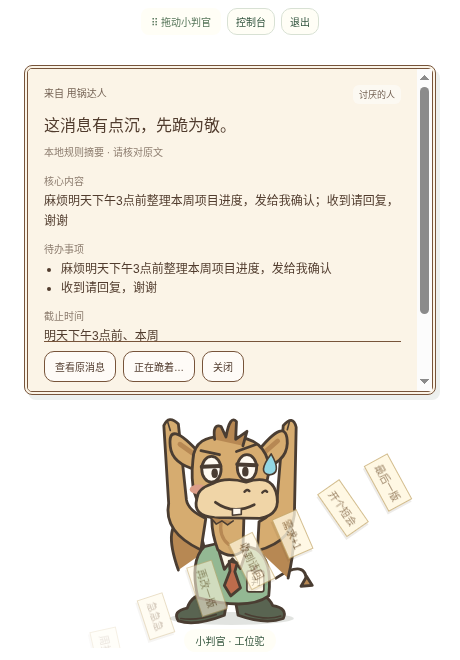
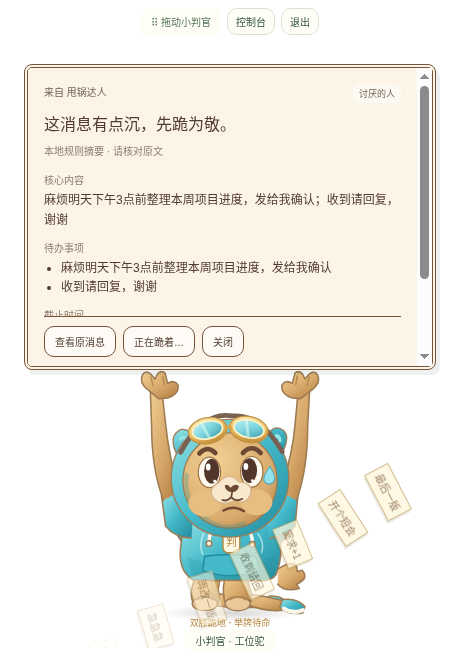
feat: redesign hoodie camel and make kneeling unmistakable

diff --git a/src/components/Character.tsx b/src/components/Character.tsx
@@ -1,55 +1,163 @@
+import {useId} from 'react';
 import type {CharacterSkin} from '../lib/model';
 import {actionLabels, isKneeling} from '../lib/effects';
 
-// 原创 SVG 骆驼：双驼峰、半睁眼、突出的大嘴。矢量分组作为动画关节。
+// 原创圆润连帽衫骆驼。渐变、眼睛高光和软轮廓提供立体感；独立跪姿骨架，
+// 不是把站姿的脚压扁。四套皮肤和所有动作共用同一套可变形矢量关节。
 export function Character({action = 'idle', name = '小判官', color = '薄荷绿', skin = 'desert'}: {
   action?: string; name?: string; color?: string; skin?: CharacterSkin;
 }) {
-  const label = actionLabels[action as keyof typeof actionLabels] ?? '带薪发呆';
-  return <div className={`character camel ${action} ${isKneeling(action) ? 'kneel' : ''} skin-${skin} color-${color}`} role="img" aria-label={`${name}，骆驼打工人，${label}`}>
-    <svg viewBox="0 0 260 290" aria-hidden="true" className="camel-art">
-      <ellipse className="camel-shadow" cx="132" cy="277" rx="77" ry="8"/>
-      <g className="camel-figure" stroke="var(--ink)" strokeWidth="3.5" strokeLinejoin="round" strokeLinecap="round">
-        <path className="camel-tail" d="M187 227 Q226 201 225 234" fill="none"/><path className="camel-tail-tip" d="M225 225 l-7 12 14-1 Z" fill="var(--fur-dark)"/>
-        <g className="camel-humps" fill="var(--fur-dark)"><path d="M66 205 Q45 146 75 141 Q91 140 99 182"/><path d="M167 182 Q180 121 202 147 Q215 160 202 215"/></g>
-        <g className="camel-knees" fill="var(--pants)"><path d="M115 248 Q85 241 77 264 Q58 268 66 280 Q87 287 123 273 L127 252 Z"/><path d="M143 248 Q174 240 183 261 Q202 264 196 277 Q174 285 140 273 L136 252 Z"/><path d="M69 277 Q89 280 113 272 M149 271 Q175 280 193 274" fill="none" strokeWidth="2"/></g>
-        <g className="camel-leg left"><path d="M97 238 L94 267 Q70 270 77 279 L117 278 L119 238" fill="var(--pants)"/><path d="M77 275 H116"/></g>
-        <g className="camel-leg right"><path d="M140 237 L143 274 L184 279 Q191 267 166 267 L164 237" fill="var(--pants)"/><path d="M145 275 H182"/></g>
-        <g className="camel-arm left" fill="var(--fur)"><path d="M90 188 Q68 180 66 210 L62 233 Q66 247 79 237 L96 210"/><path d="M65 232 l9 2"/></g>
-        <g className="camel-raised-arms" fill="var(--fur)"><path d="M94 192 Q47 170 54 134 L48 38 Q54 24 66 36 L76 130 Q78 143 100 153 Z"/><path d="M164 193 Q212 180 210 139 L212 40 Q208 24 196 38 L188 133 Q184 148 166 157 Z"/><path d="M53 34 l3 10 M204 32 l-3 11" strokeWidth="2"/></g>
-        <g className="camel-torso">
-          <path d="M98 176 Q129 166 162 179 Q183 192 178 237 Q152 256 90 239 Q80 193 98 176 Z" fill="var(--shirt)"/>
-          <path d="M113 170 L123 204 L133 191 L143 203 L153 173" fill="var(--collar)"/>
-          <path className="camel-tie" d="M129 194 l10 2-3 11 7 20-12 10-8-13 7-18 Z" fill="var(--accent)"/>
-          <rect x="151" y="206" width="21" height="26" rx="3" fill="var(--collar)" strokeWidth="2"/>
-          <path d="M161 201 v8"/><text x="162" y="223" textAnchor="middle" fontSize="12" fill="var(--ink)" stroke="none">判</text>
-          {skin === 'milktea' && <path d="M98 215 Q122 233 145 218 L146 243 L99 239 Z" fill="var(--accent)" strokeWidth="2"/>}
-          {skin === 'judge' && <path d="M100 181 l13 46 11-20 M164 181 l-11 46-11-20" fill="none" stroke="var(--accent)"/>}
-        </g>
-        <g className="camel-neck"><path d="M115 112 Q100 140 115 180 Q131 193 146 181 L148 114" fill="var(--fur)"/><path d="M119 145 Q116 163 128 173" fill="none" stroke="var(--fur-dark)" strokeWidth="4"/></g>
-        <g className="camel-head">
-          <path d="M93 61 Q52 16 56 52 Q58 73 89 81" fill="var(--fur)"/><path d="M89 64 L68 49" stroke="var(--fur-dark)" strokeWidth="6"/>
-          <path d="M161 62 Q201 11 201 48 Q200 72 167 80" fill="var(--fur)"/><path d="M167 64 L189 45" stroke="var(--fur-dark)" strokeWidth="6"/>
-          <path d="M84 69 Q85 36 128 40 Q174 38 179 79 L170 124 Q144 148 101 131 Q79 117 84 69 Z" fill="var(--fur)"/>
-          <path d="M111 43 q-3-20 8-16 l6 13 q5-28 13-19 l-1 22 14-10-5 18" fill="var(--fur-dark)"/>
-          <g className="camel-eyes"><ellipse cx="107" cy="80" rx="12" ry="16" fill="#fffaf1"/><ellipse cx="151" cy="78" rx="12" ry="16" fill="#fffaf1"/><ellipse className="camel-pupil" cx="111" cy="85" rx="4" ry="6" fill="var(--ink)" stroke="none"/><ellipse className="camel-pupil" cx="149" cy="83" rx="4" ry="6" fill="var(--ink)" stroke="none"/><path className="camel-lids" d="M95 77 l23-1 M139 74 l24 1" fill="none" strokeWidth="5"/></g>
-          <path className="camel-brows" d="M94 57 l23 5 M138 58 l25-9" fill="none"/>
-          <ellipse cx="91" cy="105" rx="11" ry="6" fill="var(--blush)" stroke="none"/>
-          <path d="M108 98 Q124 89 150 96 Q180 86 187 108 Q195 136 167 141 L111 140 Q83 138 89 116 Q90 104 108 98 Z" fill="var(--snout)"/>
-          <path d="M148 108 q3-4 6-1 M170 109 q3-4 6-1" fill="none" strokeWidth="3"/>
-          <path className="camel-mouth" d="M112 121 Q134 137 160 124" fill="none"/>
-          <path className="camel-tooth" d="M133 129 v8 l11-1 v-7" fill="#fffaf1" strokeWidth="2"/>
-          <path className="camel-yawn-mouth" d="M124 116 Q152 107 156 127 Q152 145 130 137 Q119 132 124 116" fill="#8e4d44"/>
-          <path d="M106 140 l7 8 7-4 7 5 7-5" fill="var(--fur-dark)" strokeWidth="2"/>
-          <path className="camel-sweat" d="M181 61 q-18 24-2 26 q16-2 2-26" fill="#92d7e4" strokeWidth="2"/>
-          {skin === 'neon' && <g className="camel-headphones"><path d="M83 85 Q72 30 127 33 Q184 29 179 89" fill="none" stroke="var(--accent)" strokeWidth="8"/><rect x="77" y="76" width="12" height="25" rx="5" fill="var(--shirt)"/><rect x="173" y="74" width="12" height="25" rx="5" fill="var(--shirt)"/></g>}
-          {skin === 'judge' && <g className="camel-glasses" fill="none" stroke="var(--accent)"><rect x="91" y="66" width="32" height="29" rx="8"/><rect x="135" y="64" width="32" height="29" rx="8"/><path d="M123 78 h12 M167 75 l10-4"/></g>}
-        </g>
-        <g className="camel-arm right" fill="var(--fur)"><path d="M171 187 Q191 182 196 207 L204 233 Q199 248 186 239 L167 208"/><path d="M192 233 l9-1"/></g>
-        <g className="camel-phone"><rect x="69" y="211" width="29" height="41" rx="5" fill="var(--pants)"/><rect x="73" y="216" width="21" height="27" rx="2" fill="#b6e0c3" strokeWidth="1"/><text x="84" y="232" fontSize="8" fill="#305443" stroke="none" textAnchor="middle">摸鱼</text></g>
-        {skin === 'milktea' && <g className="camel-cup"><path d="M175 222 h27 l-5 30 h-17 Z" fill="#f6d9aa"/><path d="M190 211 v18" fill="none"/><path d="M175 224 h27"/><circle cx="186" cy="245" r="2" fill="var(--ink)"/><circle cx="193" cy="242" r="2" fill="var(--ink)"/></g>}
+  const id = useId().replace(/:/g, '');
+  const paint = (part: string) => 'url(#' + id + '-' + part + ')';
+  const kneeling = isKneeling(action);
+  const label = actionLabels[action as keyof typeof actionLabels] ?? '元气待机';
+  return <div className={'character camel plush ' + action + (action === 'panic' ? ' kneel' : '') + ' skin-' + skin + ' color-' + color}
+    role="img" data-pose={kneeling ? 'kneeling' : 'standing'}
+    aria-label={name + '，连帽衫骆驼，' + (kneeling ? '双膝跪地、折腿举牌，' : '') + label}>
+    <svg viewBox="0 0 300 370" aria-hidden="true" className="camel-art">
+      <defs>
+        <linearGradient id={id + '-fur'} x1="0" y1="0" x2=".85" y2="1" gradientUnits="objectBoundingBox">
+          <stop offset="0" stopColor="var(--fur-light)"/><stop offset=".55" stopColor="var(--fur)"/><stop offset="1" stopColor="var(--fur-dark)"/>
+        </linearGradient>
+        <radialGradient id={id + '-face'} cx=".35" cy=".3" r=".85">
+          <stop offset="0" stopColor="var(--fur-light)"/><stop offset=".72" stopColor="var(--fur)"/><stop offset="1" stopColor="var(--fur-dark)"/>
+        </radialGradient>
+        <linearGradient id={id + '-hoodie'} x1="0" y1="0" x2="1" y2="1">
+          <stop offset="0" stopColor="var(--shirt-light)"/><stop offset=".5" stopColor="var(--shirt)"/><stop offset="1" stopColor="var(--shirt-dark)"/>
+        </linearGradient>
+        <linearGradient id={id + '-gold'} x1="0" y1="0" x2=".3" y2="1">
+          <stop offset="0" stopColor="#fff1b8"/><stop offset=".55" stopColor="#edc368"/><stop offset="1" stopColor="#c8953c"/>
+        </linearGradient>
+        <linearGradient id={id + '-glass'} x1="0" y1="0" x2="1" y2="1">
+          <stop offset="0" stopColor="#c7f4f3"/><stop offset=".5" stopColor="var(--glass)"/><stop offset="1" stopColor="#3c9aa7"/>
+        </linearGradient>
+        <radialGradient id={id + '-shadow'}><stop offset="0" stopColor="#3a3a32" stopOpacity=".23"/><stop offset="1" stopColor="#3a3a32" stopOpacity="0"/></radialGradient>
+      </defs>
+      <ellipse className="camel-shadow" cx="150" cy="347" rx="100" ry="13" fill={paint('shadow')}/>
+      <g className="camel-landing-dust" fill="#e7d4b2" opacity=".7">
+        <ellipse cx="75" cy="338" rx="15" ry="7"/><ellipse cx="226" cy="340" rx="17" ry="8"/><ellipse cx="52" cy="337" rx="9" ry="5"/>
       </g>
-      <g className="camel-mood" fill="var(--accent)"><text className="camel-zzz" x="196" y="37" fontSize="18">困…</text><text className="camel-heart" x="205" y="75" fontSize="26">♥</text><text className="camel-panic-label" x="25" y="130" fontSize="16" fontWeight="700">我裂开了</text></g>
+      <g className="camel-figure" stroke="var(--ink)" strokeWidth="2.2" strokeLinejoin="round" strokeLinecap="round">
+        <g className="camel-standing-legs">
+          <path d="M107 281 l4 44 q16 13 27-1 l4-41 Z" fill={paint('fur')}/>
+          <path d="M161 281 l2 43 q16 15 30-2 l-5-42 Z" fill={paint('fur')}/>
+          <g className="camel-shoe left"><path d="M107 321 q17-13 35 1 l3 19 q-10 11-45 5 l-7-7 Z" fill={paint('hoodie')}/><path d="M98 335 q22-8 45 1 l2 7 q-26 13-49-1 Z" fill="#faf8ed"/><path d="M112 322 l13 4 m-16 2 14 4" stroke="#fff" strokeWidth="3"/></g>
+          <g className="camel-shoe right"><path d="M161 321 q18-13 32 2 l13 16 q-9 13-43 6 l-6-9 Z" fill={paint('hoodie')}/><path d="M159 336 q24-6 43 1 l4 6 q-22 10-45 1 Z" fill="#faf8ed"/><path d="M172 322 l12 4 m-13 2 14 3" stroke="#fff" strokeWidth="3"/></g>
+        </g>
+
+        {/* 两条小腿向后/两侧折叠，膝盖压在地面，露出鞋底。独立于站姿。 */}
+        <g className="camel-kneeling-legs">
+          <g className="camel-folded-calf left">
+            <path d="M116 320 Q160 320 207 325 L214 336 Q164 344 113 334 Z" fill={paint('fur')}/>
+            <path d="M206 323 Q222 321 233 333 L229 342 Q213 346 201 335 Z" fill={paint('hoodie')}/>
+            <path d="M203 335 Q216 343 229 336" fill="none" stroke="#f9f6ea" strokeWidth="6"/>
+          </g>
+          <g className="camel-folded-calf right">
+            <path d="M177 320 Q200 323 227 330 L239 341 Q206 349 172 334 Z" fill={paint('fur')}/>
+            <path d="M225 328 Q246 325 257 338 L254 347 Q235 351 221 339 Z" fill={paint('hoodie')}/>
+            <path d="M227 341 Q240 349 254 343" fill="none" stroke="#f9f6ea" strokeWidth="6"/>
+          </g>
+          <g className="camel-knee left">
+            <path d="M107 289 Q91 308 96 329 Q101 348 124 341 Q139 334 133 314 L137 290 Z" fill={paint('fur')}/>
+            <ellipse cx="114" cy="334" rx="18" ry="10" fill="#eac899" strokeWidth="2"/>
+            <path d="M103 328 q11-7 23 0" fill="none" stroke="#b88952"/>
+          </g>
+          <g className="camel-knee right" transform="translate(-16 0)">
+            <path d="M161 289 Q154 310 158 329 Q165 348 187 339 Q203 331 193 309 L190 289 Z" fill={paint('fur')}/>
+            <ellipse cx="177" cy="334" rx="18" ry="10" fill="#eac899" strokeWidth="2"/>
+            <path d="M166 328 q11-7 22 0" fill="none" stroke="#b88952"/>
+          </g>
+        </g>
+
+        <g className="camel-torso">
+          <path className="camel-tail" d="M219 269 q27-17 27 4 l7-2 q11 12-8 20 l4 6 q-20 6-31-6" fill={paint('fur')}/>
+          <g className="camel-humps" fill={paint('hoodie')}><path d="M80 229 Q56 195 72 182 Q86 179 104 210"/><path d="M200 210 Q217 172 235 188 Q248 207 221 233"/></g>
+          <path d={kneeling ? 'M103 263 Q146 253 191 265 L195 281 Q178 291 155 282 Q128 291 104 281 Z' : 'M102 263 Q145 250 192 265 L195 294 Q175 309 154 295 Q126 309 104 292 Z'} fill="var(--pants)"/>
+          <path d="M92 201 Q146 184 204 204 Q232 226 218 271 Q216 284 199 286 L97 285 Q74 270 80 234 Q81 215 92 201 Z" fill={paint('hoodie')}/>
+          <path d="M89 252 Q146 276 217 250 L213 275 Q166 291 95 278 Z" fill="var(--shirt-dark)" opacity=".22" stroke="none"/>
+          <path d="M114 251 Q150 246 187 251 L192 271 Q152 286 111 272 Z" fill="var(--shirt)" stroke="var(--shirt-dark)" strokeWidth="2"/>
+          <path d="M112 219 q-7 18-1 29 M190 219 q10 14 5 27" fill="none" stroke="#fff" strokeOpacity=".55"/>
+          <path className="camel-drawstring" d="M129 203 q-9 15-9 28 M171 202 q11 17 11 29" fill="none" stroke="#fff9ec" strokeWidth="5"/>
+          <circle cx="120" cy="233" r="4" fill="#fff9ec"/><circle cx="182" cy="234" r="4" fill="#fff9ec"/>
+          <rect x="140" y="218" width="24" height="28" rx="7" fill="#fff8e5" stroke="var(--accent)" strokeWidth="2"/>
+          <text x="152" y="237" textAnchor="middle" fontSize="15" fontWeight="700" fill="var(--accent)" stroke="none">判</text>
+          {skin === 'milktea' && <path d="M106 246 Q151 260 196 247 L201 279 Q150 291 103 277 Z" fill="#ddaa65" stroke="#bb8347"/>}
+          {skin === 'judge' && <path d="M96 208 l24 38 14-28 M201 208 l-23 39-13-29" fill="none" stroke="var(--accent)" strokeWidth="5"/>}
+        </g>
+
+        <g className="camel-arm left">
+          <path d="M88 211 Q64 207 58 227 L58 247 Q76 256 89 242 L102 223 Z" fill={paint('hoodie')}/>
+          <path d="M58 240 Q41 238 38 255 Q34 275 52 279 Q65 288 75 273 L80 255" fill={paint('fur')}/>
+          <path d="M44 264 q4 4 8 2 m2 6 7-1" fill="none" stroke="#bc8a51" strokeWidth="2"/>
+        </g>
+
+        <g className="camel-raised-arms">
+          <g className="camel-support-arm left">
+            <path d="M95 240 Q70 239 58 223 L52 179 Q67 168 83 183 L97 208" fill={paint('hoodie')}/>
+            <path d="M55 186 Q38 142 38 80 L36 25 Q40 12 52 23 L58 77 Q62 118 77 174" fill={paint('fur')}/>
+            <path d="M36 31 Q19 19 25 7 Q30-1 38 7 L43 13 Q48-2 57 4 L61 19 Q71 13 76 22 Q77 35 61 40 L48 41 Z" fill={paint('fur')}/>
+            <path d="M37 10 l3 12 M54 9 l2 12" fill="none" stroke="#b88952"/>
+          </g>
+          <g className="camel-support-arm right">
+            <path d="M207 240 Q231 239 243 223 L247 179 Q232 168 217 183 L202 208" fill={paint('hoodie')}/>
+            <path d="M245 186 Q261 142 261 80 L264 25 Q260 12 248 23 L243 77 Q240 118 222 174" fill={paint('fur')}/>
+            <path d="M264 31 Q281 19 275 7 Q270-1 262 7 L257 13 Q252-2 243 4 L239 19 Q229 13 224 22 Q223 35 239 40 L251 41 Z" fill={paint('fur')}/>
+            <path d="M263 10 l-3 12 M246 9 l-2 12" fill="none" stroke="#b88952"/>
+          </g>
+        </g>
+
+        <g className="camel-head">
+          <path d="M62 88 Q42 52 67 41 Q88 40 92 69 M209 68 Q218 28 240 42 Q255 53 235 88" fill={paint('hoodie')}/>
+          <path d="M66 57 q5-8 13 7 M226 54 q7-6 9 6" fill="none" stroke="var(--shirt-light)" strokeWidth="6"/>
+          <ellipse cx="150" cy="124" rx="100" ry="100" fill={paint('hoodie')}/>
+          <ellipse cx="150" cy="128" rx="80" ry="81" fill={paint('face')}/>
+          <path d="M76 118 Q72 168 106 191 Q137 217 173 201" fill="none" stroke="var(--shirt-dark)" strokeOpacity=".28" strokeWidth="7"/>
+          <ellipse cx="107" cy="167" rx="28" ry="22" fill="#e8bd80" stroke="none"/>
+          <ellipse cx="195" cy="165" rx="27" ry="22" fill="#e8bd80" stroke="none"/>
+          <g className="camel-eyes">
+            <ellipse cx="115" cy="114" rx="19" ry="26" fill="#fff9f0" stroke="#9c723f" strokeWidth="2"/>
+            <ellipse cx="187" cy="113" rx="19" ry="26" fill="#fff9f0" stroke="#9c723f" strokeWidth="2"/>
+            <ellipse className="camel-pupil" cx="119" cy="117" rx="13" ry="21" fill="#513629" stroke="none"/>
+            <ellipse className="camel-pupil" cx="183" cy="116" rx="13" ry="21" fill="#513629" stroke="none"/>
+            <ellipse cx="113" cy="105" rx="4" ry="6" fill="#fff" stroke="none"/><circle cx="124" cy="129" r="2.5" fill="#fff" stroke="none"/>
+            <ellipse cx="177" cy="104" rx="4" ry="6" fill="#fff" stroke="none"/><circle cx="188" cy="128" r="2.5" fill="#fff" stroke="none"/>
+            <path className="camel-lids" d="M96 108 h37 M168 107 h37" stroke="var(--fur)" strokeWidth="13"/>
+            <path className="camel-closed-eyes" d="M98 117 q17-10 33 0 M170 116 q17-10 33 0" fill="none" stroke="#6b4934" strokeWidth="5"/>
+          </g>
+          <path className="camel-brow left" d="M98 82 q13-15 27-1" fill="none" stroke="#6b4934" strokeWidth="8"/>
+          <path className="camel-brow right" d="M172 81 q15-16 30 0" fill="none" stroke="#6b4934" strokeWidth="8"/>
+          <path className="camel-smile" d="M127 155 Q156 180 184 153 Q193 178 164 193 Q136 200 127 174 Z" fill="#864338" stroke="#a46a49"/>
+          <path className="camel-tongue" d="M147 187 Q151 173 172 176 Q176 187 160 192 Z" fill="#d98776" stroke="none"/>
+          <path className="camel-tooth" d="M131 159 Q158 175 181 157 L178 167 Q154 179 136 168 Z" fill="#fffaf0" stroke="none"/>
+          <path className="camel-muzzle" d="M131 131 Q148 111 165 130 Q192 132 184 154 Q176 170 158 162 Q136 173 122 158 Q111 143 131 131 Z" fill="#f8e9ce" stroke="#d5b48a"/>
+          <path d="M141 137 Q145 132 151 140 Q158 132 165 137 Q165 145 154 148 Q143 147 141 137 Z" fill="#6b4934" stroke="none"/>
+          <path d="M154 146 l-2 10 q-7 8-15 5 M152 156 q8 9 19 3" fill="none" stroke="#6b4934" strokeWidth="3"/>
+          <path className="camel-kneel-mouth" d="M139 179 Q155 169 174 180" fill="none" stroke="#754832" strokeWidth="4"/>
+          <ellipse className="camel-yawn-mouth" cx="157" cy="174" rx="18" ry="21" fill="#864338" stroke="#a46a49"/>
+          <path className="camel-sweat" d="M218 104 q-20 26-2 30 q19-3 2-30" fill="#93e2ef" stroke="#57aabb" strokeWidth="2"/>
+          {skin !== 'neon' && skin !== 'judge' && <g className="camel-goggles">
+            <path d="M66 80 Q104 9 154 18 Q202 14 239 79" fill="none" stroke="#796153" strokeWidth="8"/>
+            <g transform="rotate(-12 112 43)"><ellipse cx="112" cy="43" rx="33" ry="22" fill={paint('gold')} stroke="#c29144"/><ellipse cx="112" cy="42" rx="26" ry="15" fill={paint('glass')} stroke="#fff2c6" strokeWidth="3"/><path d="M104 29 l8 25" stroke="#eafff4" strokeOpacity=".5" strokeWidth="5"/></g>
+            <g transform="rotate(12 182 41)"><ellipse cx="182" cy="41" rx="33" ry="22" fill={paint('gold')} stroke="#c29144"/><ellipse cx="182" cy="40" rx="26" ry="15" fill={paint('glass')} stroke="#fff2c6" strokeWidth="3"/><path d="M175 27 l8 25" stroke="#eafff4" strokeOpacity=".5" strokeWidth="5"/></g>
+            <path d="M143 39 q6-7 9 0" fill="none" stroke="#d6a650" strokeWidth="5"/>
+          </g>}
+          {skin === 'neon' && <g className="camel-headphones"><path d="M57 128 Q45 17 148 21 Q251 16 245 126" fill="none" stroke="var(--accent)" strokeWidth="11"/><rect x="48" y="107" width="20" height="44" rx="10" fill="var(--shirt-dark)"/><rect x="232" y="106" width="20" height="44" rx="10" fill="var(--shirt-dark)"/></g>}
+          {skin === 'judge' && <g className="camel-glasses" fill="none" stroke="var(--accent)" strokeWidth="4"><circle cx="115" cy="116" r="26"/><circle cx="187" cy="115" r="26"/><path d="M141 114 q10-7 20 0 M89 110 l-17-4 M213 110 l15-6"/></g>}
+        </g>
+
+        <g className="camel-arm right">
+          <path d="M207 211 Q232 207 240 230 L238 249 Q220 260 208 242 L194 223 Z" fill={paint('hoodie')}/>
+          <path d="M237 242 Q255 241 260 260 Q265 277 247 281 Q236 289 226 274 L222 256" fill={paint('fur')}/>
+          <path d="M247 266 q-4 4-8 2 m-2 7-7-1" fill="none" stroke="#bc8a51" strokeWidth="2"/>
+        </g>
+        <g className="camel-phone"><rect x="50" y="260" width="29" height="42" rx="6" fill="#355b56"/><rect x="54" y="265" width="21" height="29" rx="3" fill="#b9edcf" stroke="none"/><text x="65" y="283" fontSize="8" fill="#305443" stroke="none" textAnchor="middle">摸鱼</text></g>
+        {skin === 'milktea' && <g className="camel-cup"><path d="M222 266 h26 l-4 34 h-18 Z" fill="#f1d8a8" stroke="#bf9856"/><path d="M235 253 v22" fill="none"/><path d="M222 270 h26"/><circle cx="230" cy="292" r="2" fill="#805c38"/><circle cx="238" cy="289" r="2" fill="#805c38"/></g>}
+      </g>
+      <g className="camel-mood" fill="var(--accent)">
+        <text className="camel-zzz" x="242" y="78" fontSize="18">困…</text><text className="camel-heart" x="257" y="153" fontSize="27">♥</text>
+        <text className="camel-panic-label" x="17" y="267" fontSize="16" fontWeight="700">我裂开了</text>
+        <text className="camel-kneel-label" x="150" y="365" fontSize="13" textAnchor="middle" fontWeight="600">双膝跪地 · 举牌待命</text>
+      </g>
     </svg>
   </div>;
 }

diff --git a/src/styles.css b/src/styles.css
@@ -84,9 +84,9 @@ textarea { resize: vertical; line-height: 1.8; min-height: 110px; }
 .selected-effect h3 { font-size: 16px; margin-top: 15px; }
 .selected-effect button { font-size: 11px; margin: 5px 5px 5px 0; }
 .effect-preview { text-align: center; min-width: 0; }
-.effect-preview-stage { height: 330px; position: relative; overflow: hidden; border-radius: 14px; background: radial-gradient(ellipse at 50% 75%, #fdf9e5 0, #e4e9d8 70%); }
+.effect-preview-stage { height: 360px; position: relative; overflow: hidden; border-radius: 14px; background: radial-gradient(ellipse at 50% 75%, #fdf9e5 0, #e4e9d8 70%); }
 .preview-scene { display: flex; flex-direction: column; align-items: center; padding: 15px 10px 0; position: relative; z-index: 1; }
-.preview-scene .character { width: 150px; height: 167px; }
+.preview-scene .character { width: 150px; height: 185px; }
 .preview-card { width: 100%; padding: 14px; border: 2px solid var(--card-ink, #4a674e); border-radius: 12px; background: var(--card-bg, #fffef4); color: var(--card-text, #304436); box-shadow: 3px 4px 0 #34553e17; position: relative; }
 .preview-card small { font-size: 9px; opacity: .7; }
 .preview-card p { font-size: 12px; margin: 7px 0 0; line-height: 1.7; overflow-wrap: anywhere; }
@@ -100,7 +100,7 @@ textarea { resize: vertical; line-height: 1.8; min-height: 110px; }
 .skin-gallery { display: grid; grid-template-columns: repeat(4, minmax(0, 1fr)); gap: 10px; margin: 22px 0; }
 .skin-choice { padding: 13px 8px; border-radius: 16px; background: #fffdf5; text-align: center; }
 .skin-choice.selected { border: 2px solid #467050; background: #edf2e4; padding: 12px 7px; box-shadow: 0 4px 10px #35503a18; }
-.skin-choice .character { width: 125px; height: 140px; max-width: 100%; margin: auto; }
+.skin-choice .character { width: 125px; height: 154px; max-width: 100%; margin: auto; }
 .skin-choice strong { display: block; font-size: 12px; margin: 8px 0; }
 .skin-choice small { display: block; font-size: 10px; line-height: 1.6; color: #7a8871; min-height: 32px; }
 .card-skin-samples { display: grid; grid-template-columns: repeat(4, minmax(0, 1fr)); gap: 12px; margin: 25px 0; }
@@ -146,61 +146,74 @@ textarea { resize: vertical; line-height: 1.8; min-height: 110px; }
 .pet-toolbar button { font-size: 10px; padding: 5px 8px; background: #fffef5ed; }
 .drag-handle { -webkit-app-region: drag; background: #fffef5dd; border-radius: 8px; padding: 6px 10px; color: #58775c; }
 .pet-scene { display: flex; flex-direction: column; align-items: center; width: 100%; max-height: 600px; position: relative; }
-.pet-scene .message-card { width: 100%; max-height: 330px; overflow: auto; position: relative; z-index: 2; flex-shrink: 1; }
+.pet-scene .message-card { width: 100%; max-height: 306px; overflow: auto; position: relative; z-index: 2; flex-shrink: 1; }
 .pet-scene .card-actions { position: sticky; bottom: -16px; padding: 9px 0; background: var(--card-bg); border-top: 1px solid var(--card-ink); }
-.pet-drag { -webkit-app-region: drag; flex-shrink: 0; text-align: center; height: 253px; }
-.pet-drag .character { width: 210px; height: 234px; margin: 0 auto; }
+.pet-drag { -webkit-app-region: drag; flex-shrink: 0; text-align: center; height: 278px; }
+.pet-drag .character { width: 210px; height: 259px; margin: 0 auto; }
 .pet-name { font-size: 10px; display: inline-block; padding: 4px 12px; background: #fffef5e6; border-radius: 12px; color: #34553e; }
 .idle-bubble { font-size: 12px; background: #fffef5; border: 2px solid #456349; border-radius: 16px; padding: 13px 18px; box-shadow: 3px 3px 0 #34553e17; margin-bottom: 10px; animation: bubble 5s ease-in-out infinite; }
 
-/* 骆驼服饰、配件和动作。SVG 内部关节按原始 viewBox 坐标变换。 */
+/* 圆润连帽衫骆驼。四种服饰配色共用渐变和明确的站/跪骨架。 */
 .character {
-  --ink: #4a3d32; --fur: #d6ac70; --fur-dark: #b78853; --snout: #f0d5a7; --blush: #dc9d88;
-  --shirt: #93b893; --pants: #596451; --collar: #fff9e9; --accent: #bd6c4c;
-  width: 210px; height: 234px; position: relative;
+  --ink: #9d7b55; --fur-light: #f2cf93; --fur: #d8ab6c; --fur-dark: #b78043;
+  --shirt: #43b9c9; --shirt-light: #96e3e5; --shirt-dark: #238b9c;
+  --pants: #3e4b54; --accent: #b5873d; --glass: #7cd5df;
+  width: 210px; height: 259px; position: relative;
 }
-.character.color-蜜桃粉 { --shirt: #e1a0a1; }
-.character.color-奶油黄 { --shirt: #e3cb83; }
-.character.skin-milktea { --shirt: #f2c979; --pants: #8c6c48; --accent: #a67955; --fur: #e1c18e; --fur-dark: #b69566; --snout: #f7e1b7; }
-.character.skin-neon { --shirt: #cd7caf; --pants: #47466b; --accent: #71cfca; --ink: #444059; --fur: #dbc4ba; --fur-dark: #b59ca9; --snout: #f2dccb; }
-.character.skin-judge { --shirt: #5c5378; --pants: #454256; --accent: #c3a35d; --collar: #eee5d3; --fur: #b7b6cc; --fur-dark: #8785a3; --snout: #ded9e6; --ink: #454054; }
+.character.color-蜜桃粉 { --shirt: #e29aa9; --shirt-light: #ffd3d8; --shirt-dark: #b9738b; }
+.character.color-奶油黄 { --shirt: #e5c16a; --shirt-light: #fff0b5; --shirt-dark: #bd9643; }
+.character.skin-milktea {
+  --shirt: #e6c389; --shirt-light: #fff0cf; --shirt-dark: #b38b53;
+  --pants: #806344; --accent: #a0703e; --glass: #9dd4be;
+}
+.character.skin-neon {
+  --shirt: #b581ca; --shirt-light: #e7bbf1; --shirt-dark: #7b528f;
+  --pants: #47415f; --accent: #69cfc2; --glass: #a1e8dd;
+}
+.character.skin-judge {
+  --shirt: #72658f; --shirt-light: #aaa0c4; --shirt-dark: #49435f;
+  --pants: #44404e; --accent: #cba657; --glass: #bfcbe8;
+}
 .camel-art { width: 100%; height: 100%; overflow: visible; display: block; }
-.camel-shadow { fill: #3c493327; }
-.camel-head, .camel-arm, .camel-leg, .camel-humps, .camel-neck, .camel-torso, .camel-figure { transform-box: view-box; }
-.camel-head { transform-origin: 130px 125px; }
-.camel-arm.left { transform-origin: 90px 190px; }
-.camel-arm.right { transform-origin: 174px 190px; }
-.camel-leg.left { transform-origin: 108px 239px; }
-.camel-leg.right { transform-origin: 153px 239px; }
-.camel-figure { transform-origin: 132px 277px; }
-.camel-phone, .camel-zzz, .camel-heart, .camel-sweat, .camel-yawn-mouth, .camel-raised-arms, .camel-panic-label, .camel-knees { display: none; }
+.camel-shadow { opacity: .9; }
+.camel-head, .camel-arm, .camel-torso, .camel-figure, .camel-drawstring { transform-box: view-box; }
+.camel-head { transform-origin: 150px 128px; }
+.camel-arm.left { transform-origin: 88px 220px; }
+.camel-arm.right { transform-origin: 210px 220px; }
+.camel-figure { transform-origin: 150px 344px; }
+.camel-phone, .camel-zzz, .camel-heart, .camel-sweat, .camel-yawn-mouth, .camel-raised-arms,
+.camel-panic-label, .camel-kneeling-legs, .camel-kneel-label, .camel-kneel-mouth,
+.camel-lids, .camel-closed-eyes, .camel-landing-dust { display: none; }
 .idle .camel-head { animation: camel-idle 4s ease-in-out infinite; }
-.fish .camel-phone { display: block; }
-.fish .camel-head { transform: rotate(6deg); }
-.fish .camel-arm.left { transform: rotate(-30deg); }
-.yawn .camel-yawn-mouth, .yawn .camel-zzz { display: block; }
-.yawn .camel-mouth, .yawn .camel-tooth { display: none; }
+.fish .camel-phone, .fish .camel-lids { display: block; }
+.fish .camel-head { transform: rotate(5deg); }
+.fish .camel-arm.left { transform: rotate(-22deg); }
+.yawn .camel-yawn-mouth, .yawn .camel-zzz, .yawn .camel-closed-eyes { display: block; }
+.yawn .camel-pupil, .yawn .camel-smile, .yawn .camel-tooth, .yawn .camel-tongue { display: none; }
 .yawn .camel-head { animation: camel-idle 2s ease-in-out infinite; }
-.salute .camel-arm.right { transform: rotate(-145deg); }
-.salute .camel-tie { animation: tie-swing 1s ease-in-out 3; transform-origin: 134px 198px; }
+.salute .camel-arm.right { transform: rotate(-145deg) scaleY(1.3); }
+.salute .camel-drawstring { animation: string-swing 1s ease-in-out 3; transform-origin: 150px 202px; }
 .happy .camel-figure { animation: camel-happy .7s ease-in-out infinite alternate; }
 .happy .camel-heart { display: block; animation: bubble 1s infinite alternate; }
-.happy .camel-lids { transform: translateY(-8px); }
 .wave .camel-arm.right { animation: camel-wave .8s ease-in-out infinite alternate; }
-.kneel .camel-arm { display: none; }
-.kneel .camel-raised-arms, .kneel .camel-sweat { display: block; }
-.kneel .camel-torso, .kneel .camel-neck, .kneel .camel-head, .kneel .camel-humps { transform: translateY(12px); }
-.kneel .camel-leg { display: none; }
-.kneel .camel-knees { display: block; }
-.kneel .camel-cup { display: none; }
+.kneel .camel-arm, .kneel .camel-standing-legs, .kneel .camel-cup, .kneel .camel-smile,
+.kneel .camel-tongue, .kneel .camel-tooth { display: none; }
+.kneel .camel-raised-arms, .kneel .camel-sweat, .kneel .camel-kneeling-legs,
+.kneel .camel-kneel-label, .kneel .camel-kneel-mouth, .kneel .camel-landing-dust { display: block; }
+.kneel .camel-torso { transform: translateY(15px); }
+.kneel .camel-head { transform: translateY(30px) scale(.84); }
+.kneel .camel-pupil { transform: translateY(-5px); }
+.kneel .camel-landing-dust { animation: knee-dust .8s .5s ease-out both; transform-origin: 150px 340px; }
 .panic .camel-figure { animation: camel-panic .16s ease-in-out 14; }
 .panic .camel-panic-label { display: block; }
-.panic .camel-mouth { transform: scaleY(-1); transform-origin: 133px 127px; }
-@keyframes camel-idle { 50% { transform: rotate(-4deg) translateY(2px); } }
+.panic .camel-brow.left { transform: rotate(-8deg); transform-origin: 112px 83px; }
+.panic .camel-brow.right { transform: rotate(8deg); transform-origin: 187px 83px; }
+@keyframes camel-idle { 50% { transform: rotate(-2deg) translateY(2px); } }
 @keyframes camel-happy { to { transform: translateY(-7px) rotate(3deg); } }
-@keyframes camel-wave { from { transform: rotate(-95deg); } to { transform: rotate(-130deg); } }
+@keyframes camel-wave { from { transform: rotate(-85deg); } to { transform: rotate(-115deg); } }
 @keyframes camel-panic { 0%, 100% { transform: rotate(-2deg); } 50% { transform: rotate(2deg); } }
-@keyframes tie-swing { 50% { transform: rotate(15deg); } }
+@keyframes string-swing { 50% { transform: rotate(8deg); } }
+@keyframes knee-dust { from { opacity: 0; transform: scale(.3); } 30% { opacity: .7; } to { opacity: 0; transform: scale(1.8); } }
 @keyframes bubble { 50% { transform: translateY(-4px); } }
 
 /* 一次进场动画：消息卡片始终保留，不因动画结束而消失。 */
@@ -245,7 +258,13 @@ textarea { resize: vertical; line-height: 1.8; min-height: 110px; }
   .intro .character { width: 150px; height: 168px; }
 }
 @media (prefers-reduced-motion: reduce) {
-  .camel-figure, .camel-head, .camel-arm, .camel-tie, .camel-heart, .idle-bubble { animation: none !important; }
+  .camel-figure, .camel-head, .camel-arm, .camel-drawstring, .camel-heart, .camel-landing-dust, .idle-bubble { animation: none !important; }
   .entry-slide, .entry-bounce, .entry-spin, .entry-fade, .slide-kneel, .slide-kneel .message-card { animation-duration: .01ms; }
   .scene-effects { display: none; }
 }
+
+.pose-gallery { display: grid; grid-template-columns: repeat(3, minmax(0, 1fr)); gap: 12px; margin: 20px 0; }
+.pose-sample { padding: 18px 12px; background: #fffdf5; border: 1px solid #e0e5d9; border-radius: 16px; text-align: center; overflow: hidden; }
+.pose-sample .character { width: 160px; height: 197px; max-width: 100%; margin: auto; }
+.pose-sample strong { display: block; font-size: 12px; margin-top: 10px; }
+.pose-sample small { display: block; font-size: 10px; color: #839182; margin-top: 7px; line-height: 1.7; }

diff --git a/src/App.tsx b/src/App.tsx
@@ -118,7 +118,7 @@ function Panel({state, ready, error, setError}: {
       <nav>{['测试面板', '联系人', '消息历史', '人物设置'].map(t =>
         <button key={t} className={tab === t ? 'active' : ''} onClick={() => { setTab(t); setNotice(''); }}>{t}</button>
       )}</nav>
-      <div className="aside-bottom"><span className="status-dot"/>模拟飞书 · 本地运行<p>骆驼换装版 / 0.2.0</p></div>
+      <div className="aside-bottom"><span className="status-dot"/>模拟飞书 · 本地运行<p>圆润连帽驼 / 0.3.0</p></div>
     </aside>
 
     <section className="workspace">
@@ -212,6 +212,13 @@ function Panel({state, ready, error, setError}: {
             <Character skin={s.id} color={state.pet.color}/><strong>{s.name}</strong><small>{s.description}</small>
           </button>
         )}</div>
+        <div className="pose-gallery" role="group" aria-label="站姿与跪姿对比">
+          {(['idle', 'kneel', 'panic'] as const).map((pose, index) => <div className="pose-sample" key={pose}>
+            <Character action={pose} skin={skinDraft} color={state.pet.color}/>
+            <strong>{['元气站姿', '双膝跪地举牌', '崩溃跪地举牌'][index]}</strong>
+            <small>{['大圆眼、护目镜、连帽衫', '折腿、双膝落地、身体下沉', '保留跪姿，再加发抖和汗滴'][index]}</small>
+          </div>)}
+        </div>
         <form key={state.pet.name + '-' + state.pet.color} onSubmit={e => {
           e.preventDefault();
           const data = new FormData(e.currentTarget);

diff --git a/src/lib/effects.ts b/src/lib/effects.ts
@@ -4,10 +4,10 @@ export const actionLabels = {salute: '立正敬礼', happy: '开心蹦跶', wave
 export const entryLabels = {slide: '从边缘滑入', bounce: '弹跳出场', spin: '转圈出场', fade: '悄悄出现'} as const;
 export const gagLabels = {none: '不加特效', paper: '工单暴雨', fish: '摸鱼小鱼', hearts: '爱心撒花', overload: '驼峰过载'} as const;
 export const characterSkins = [
-  {id: 'desert', name: '沙漠社畜', description: '松领带、双驼峰，背的都是工作。'},
+  {id: 'desert', name: '沙漠社畜', description: '护目镜、连帽衫，今天也要元气上班。'},
   {id: 'milktea', name: '奶茶摸鱼', description: '奶茶续命，带薪发呆。'},
   {id: 'neon', name: '霓虹加班', description: '耳机一戴，工位之外与我无关。'},
-  {id: 'judge', name: '赛博判官', description: '小眼镜、大法袍，职场是非我来判。'},
+  {id: 'judge', name: '赛博判官', description: '小眼镜、判官服，职场是非我来判。'},
 ] as const;
 export const cardSkins = [
   {id: 'note', name: '摸鱼便签'}, {id: 'verdict', name: '职场判决书'},
